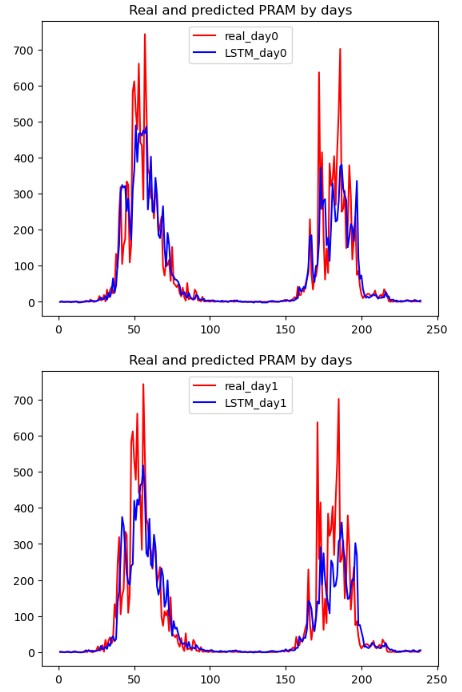
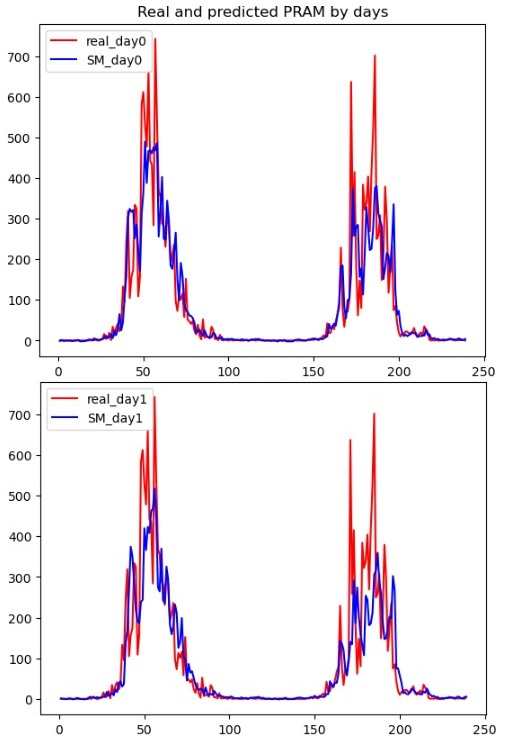
updated figure and readme

Changed region(s): [[0.0, 0.0, 1.0, 1.0]]

diff --git a/README.md b/README.md
@@ -1,22 +1,19 @@
-"# polen_forcasting" 
+# Pollen forecasting using PollenNet
 
-# Pollen forecasting
-
-This repository contains code for training LSTM network whose main goal is to forecast day-by-day pollen concentration.
-In provided data there is three types of pollen: ragweed (PRAM), grass pollen (PRTR) and birch (PRBR).
-This repository is supplementary material for ... <!--add paper title -->
+This repository contains code for training RNN network whose main goal is to forecast day-by-day pollen concentration.
+This repository is supplementary material for the paper PollenNet -  a deep learning approach for the prediction of airborne pollen concentrations.
 
 ## Running the code
-Before running the code, you should change parameters in main.py, mainly: batch size, number of simulated datasets (here it is always 30), input sequance length, number of epochs for training, learning rate for training, hidden dimension for model, wheter or not attention is used, dropout rate, number of days for which you want to predict pollen concentration, name of file where data is stored, test, validation and excluded years, wheter or not you want to use weights in loss function and finally, which model you want to use.
+Before running the code, you should change parameters in main.py, mainly: batch size, number of simulated datasets (here it is always 30), input sequence length, number of epochs for training, learning rate for training, hidden dimension for model, dropout rate, number of days for which you want to predict pollen concentration, name of file where data is stored, test, validation and excluded years, and finally, which model you want to use.
 Additionaly, you should make folders: models > {target} > {model type}, e.g. models>PRAM>SMOD where trained model will be saved. After that you simply run the training process by running: 
 ```
 python main.py
 ```
 
 ## Evaluating the model
-After training the model, you can evaluate it using iPython notebooks evaluate_model.ipynb (for single model with original data and single model with simulated data models) and evaluate_multipleModels.ipynb (for multiple models with simulated data). Again, you shoud change parameters and path file to match trained model.
+After training the model, you can evaluate it using iPython notebooks evaluate_model.ipynb (for single model with original data (PollenNet in the paper) and single model with simulated data models (SM in the paper)) and evaluate_multipleModels.ipynb (for multiple models with simulated data (RM in the paper)). Again, you shoud change parameters and path file to match the trained model.
 
-In those notebook you can generate graphs showing real and predicted values, such as:
+In those notebooks you can generate graphs showing real and predicted values, such as:
 <p align="center"><img src="https://github.com/dmatijev/polen_forcasting/blob/main/images/real_predicted_2020_2021_SMSD.jpg?raw=true" width="350" ></p>
 
 <!--Koliko u sirinu ici? Trebam li napisati da imamo 3 modela, da imamo attention? Treba li pisati i sto je u kojem fileu? npr. da se pomocu simulate data simuliraju podaci za SMSD i MMSD? -->
